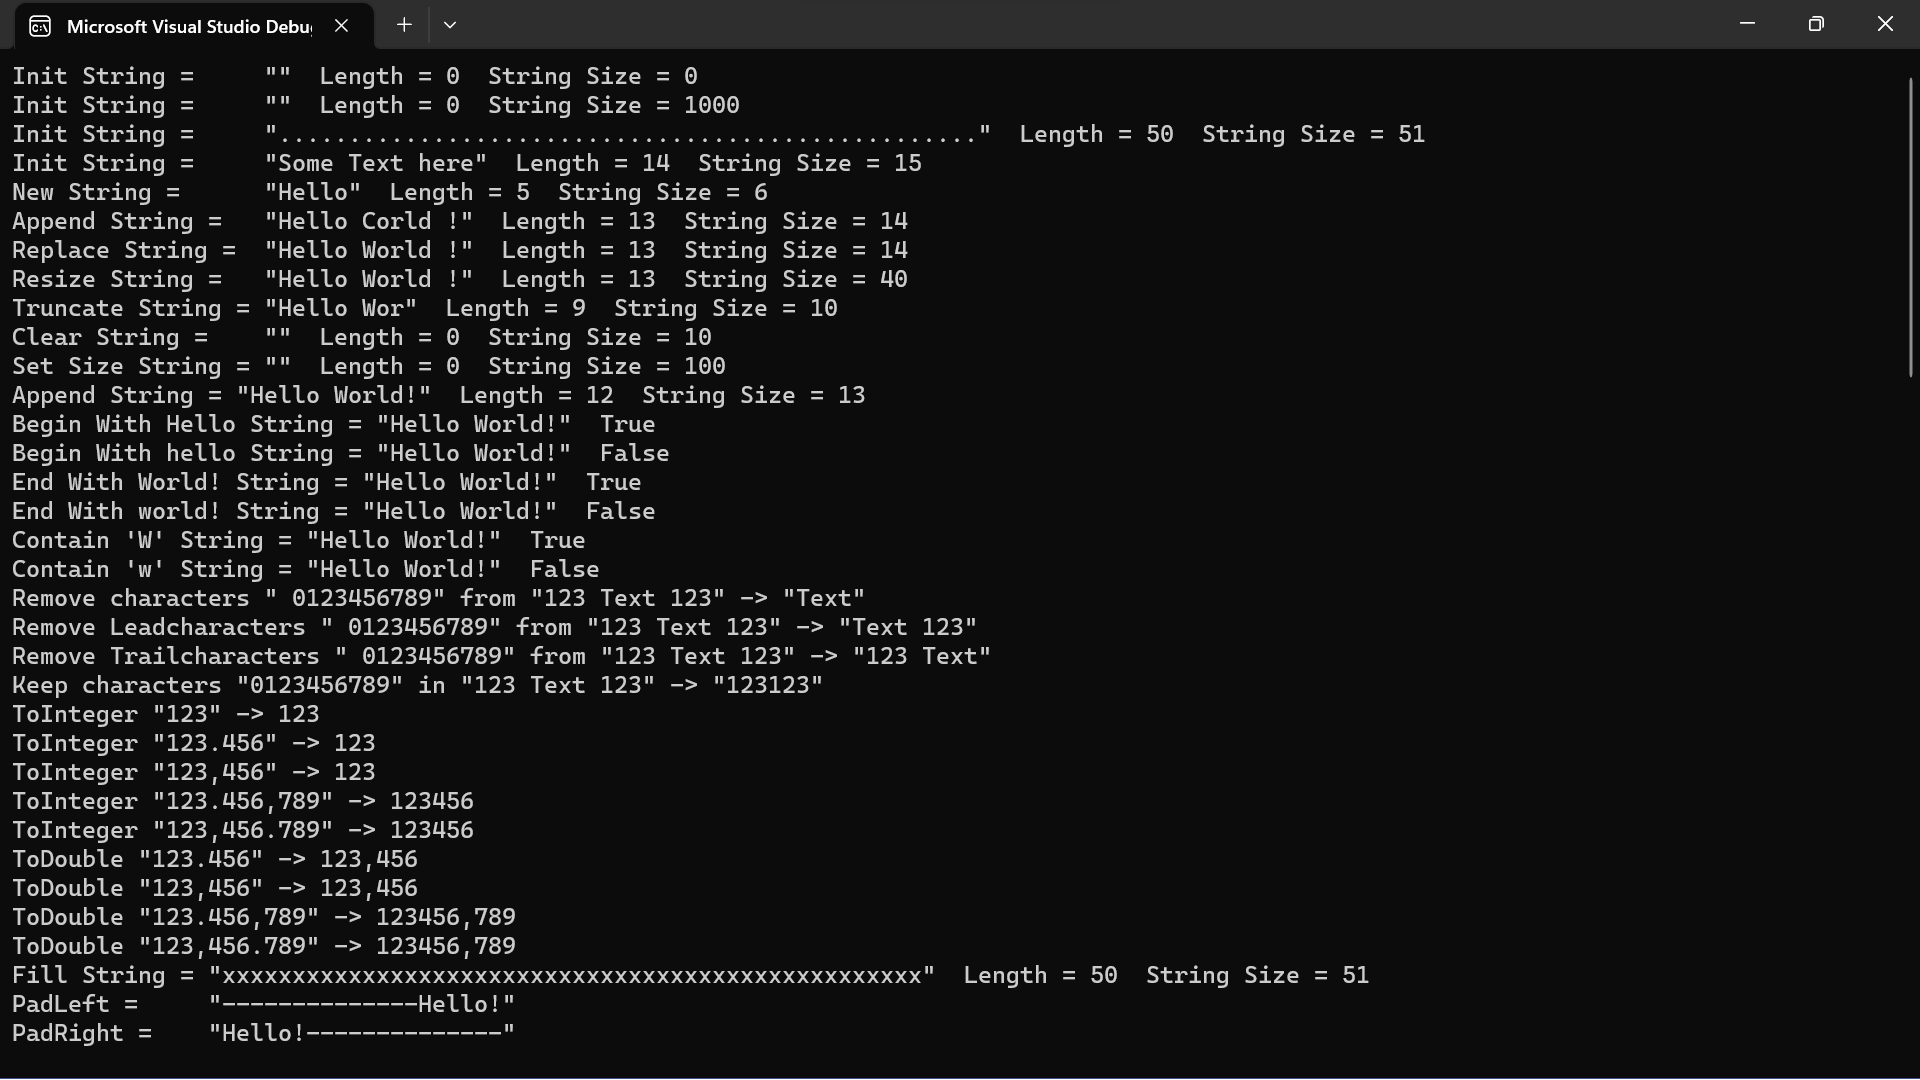
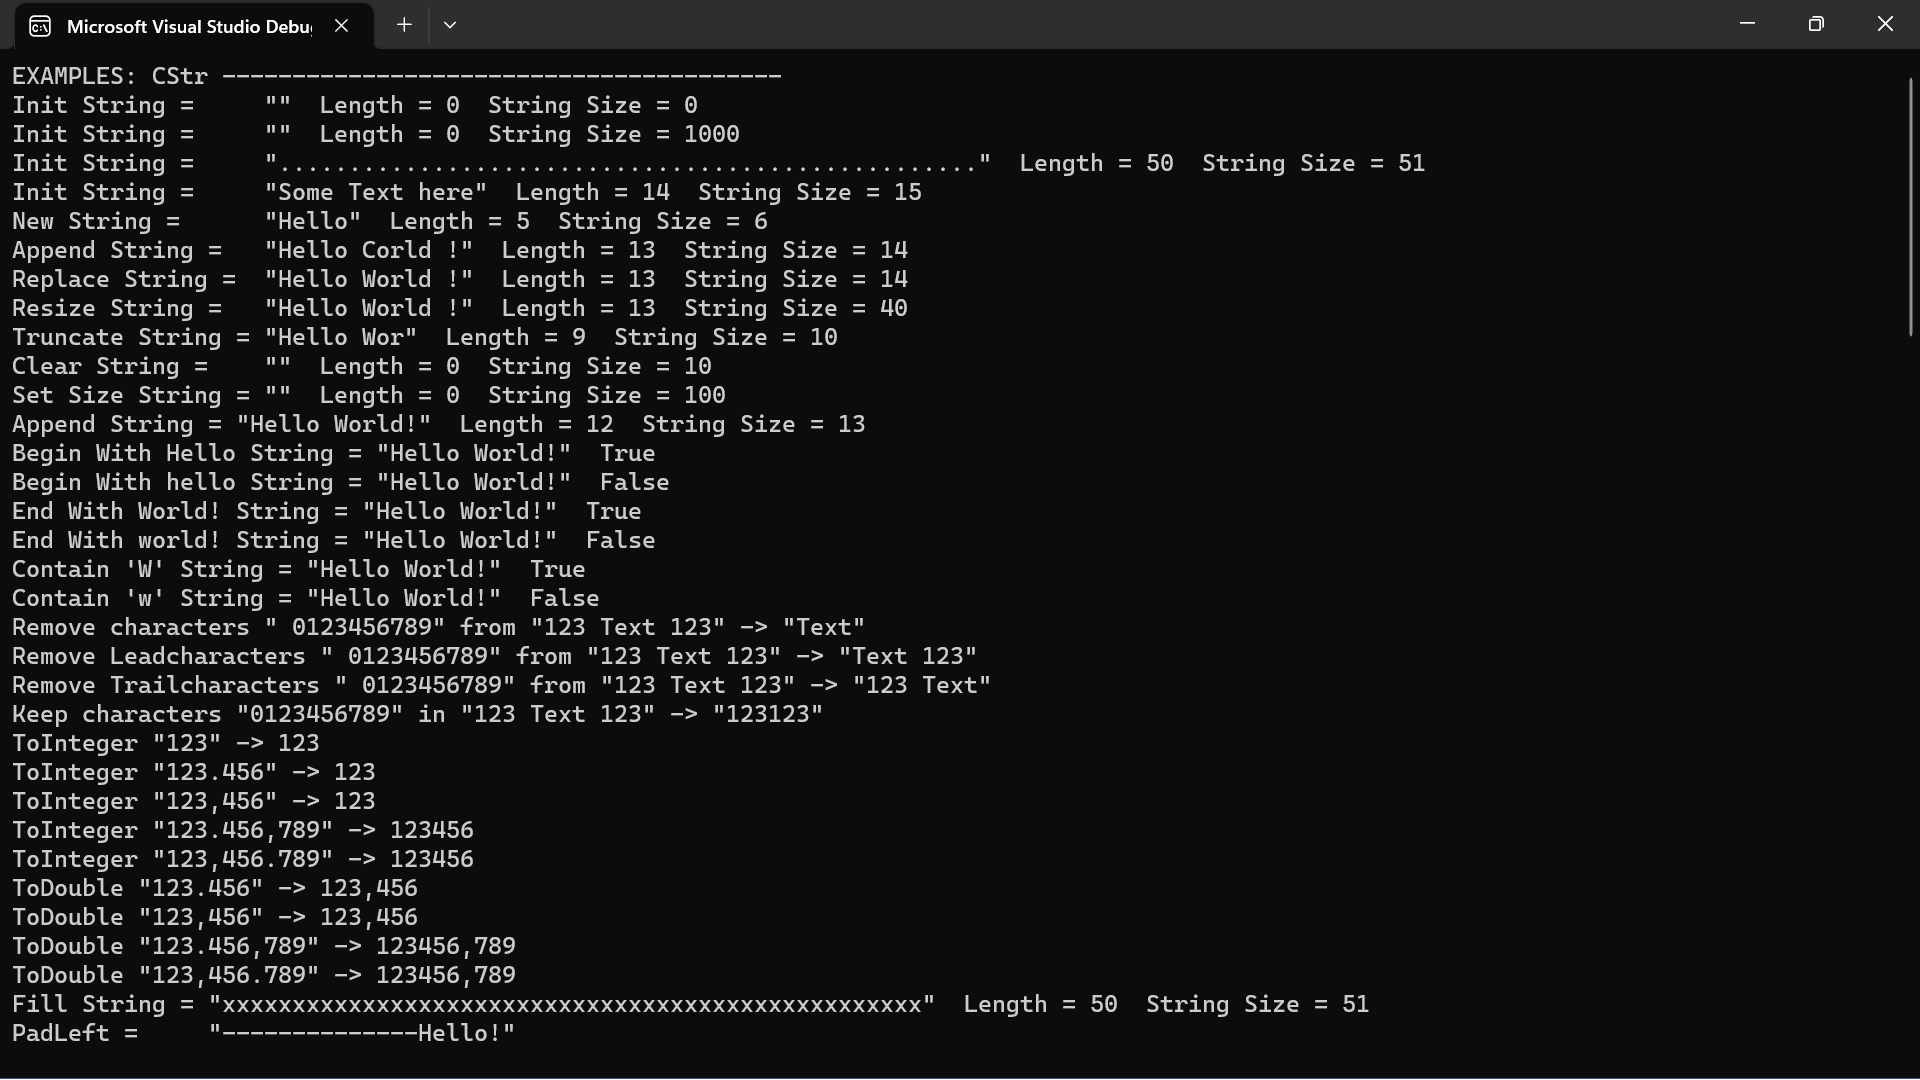
initial CQue (CStack)

diff --git a/Syslib.Core.Application/CQue_Application.cs b/Syslib.Core.Application/CQue_Application.cs
@@ -1,0 +1,122 @@
+
+namespace Syslib.Core.Application
+{
+	internal class CQue_Application
+	{
+		public void Run() 
+		{ 
+			Console.WriteLine("EXAMPLES: CQue ----------------------------------------");
+
+			this.QueClearExample();             // Clear, Items and isEmpty
+			this.QueItemsExample();				// Que function Last In First Out
+			this.PushItemsExample();            // Push function First In First Out
+			this.MixedItemsExample();			// Mix Que and push function
+
+		}
+
+
+
+		void QueClearExample() 
+		{
+			var que = new CStack<Person>();
+
+			Console.WriteLine($"Que contain {que.Length} items and is empty ? {que.IsEmpty} ");
+
+			que.Que(new Person() { Id = 1, Name = "Jane", Age = 30});
+
+			Console.WriteLine($"Que contain {que.Length} items and is empty ? {que.IsEmpty} ");
+
+			que.Clear();
+
+			Console.WriteLine($"Que contain {que.Length} items and is empty ? {que.IsEmpty} ");
+
+		}
+
+
+		void QueItemsExample()
+		{
+			var que = new CStack<Person>();
+			var names = new RandomNames();
+
+			Console.Write($"Que persons: ");
+			for (int i = 0; i < 8; i++)
+			{
+				var person = new Person() { Id = i, Age = CRandom.Random.RandomNumber(10, 50), Name = names.GetRandomName() };
+				que.Que(person);
+				Console.Write($"{person.Name} ({person.Age}), ");
+			}
+
+			Console.Write($"\nQue {que.Length} Order: ");
+
+			while (!que.IsEmpty)
+			{
+				var person = que.Pop();
+				Console.Write($"{person.Name} ({person.Age}), ");
+			}
+			Console.Write("\n");
+
+		}
+
+
+		void PushItemsExample()
+		{
+			var que = new CStack<Person>();
+			var names = new RandomNames();
+
+			Console.Write($"Push persons: ");
+			for (int i = 0; i < 8; i++)
+			{
+				var person = new Person() { Id = i, Age = CRandom.Random.RandomNumber(10, 50), Name = names.GetRandomName() };
+				que.Push(person);
+				Console.Write($"{person.Name} ({person.Age}), ");
+			}
+
+			Console.Write($"\nPush {que.Length} Order: ");
+
+			while (!que.IsEmpty)
+			{
+				var person = que.Pop();
+				Console.Write($"{person.Name} ({person.Age}), ");
+			}
+			Console.Write("\n");
+
+		}
+
+
+		void MixedItemsExample()
+		{
+			var que = new CStack<Person>();
+			var names = new RandomNames();
+
+			Console.Write($"Mixed persons: ");
+			for (int i = 0; i < 4; i++)
+			{
+				var person = new Person() { Id = i, Age = CRandom.Random.RandomNumber(10, 50), Name = names.GetRandomName() };
+				que.Que(person);
+				Console.Write($"{person.Name} ({person.Age}), ");
+			}
+			for (int i = 0; i < 4; i++)
+			{
+				var person = new Person() { Id = i, Age = CRandom.Random.RandomNumber(10, 50), Name = names.GetRandomName() };
+				que.Push(person);
+				Console.Write($"{person.Name} ({person.Age}), ");
+			}
+
+			Console.Write($"\nMixed {que.Length} Order: ");
+
+			while (!que.IsEmpty)
+			{
+				var person = que.Pop();
+				Console.Write($"{person.Name} ({person.Age}), ");
+			}
+			Console.Write("\n");
+
+		}
+
+
+
+
+
+
+	}
+}

diff --git a/Syslib.Core.Application/Program_CommonData.cs b/Syslib.Core.Application/Program_CommonData.cs
@@ -1,0 +1,44 @@
+
+namespace Syslib.Core.Application
+{
+
+
+
+	class Person
+	{
+		public int Id { get; set; }
+		public string? Name { get; set; }
+		public int Age { get; set; }
+
+
+	}
+
+
+	class RandomNames
+	{
+		CList<string> namelist = new();
+
+		string[] data =  { "Adam", "Eve", "Jane", "John" };
+
+		public RandomNames() 
+		{ 
+			this.Init();
+		}
+
+		public string GetRandomName() 
+		{
+			return this.namelist.Random();
+		}
+
+
+		void Init() 
+		{ 
+			this.namelist.Add(data);
+		}
+
+	}
+
+
+
+
+}

diff --git a/Syslib.Core.Application/CList_Application.cs b/Syslib.Core.Application/CList_Application.cs
@@ -3,12 +3,6 @@ namespace Syslib.Core.Application
 {
 
 
-	class Person 
-	{
-        public int Id { get; set; }
-		public string? Name { get; set; }
-
-    }
 
 
 	internal class CList_Application
@@ -18,6 +12,7 @@ namespace Syslib.Core.Application
 
 		public void Run()
 		{
+			Console.WriteLine("EXAMPLES: CList ----------------------------------------");
 			this.IsEmpyList();					// check if list is empty
 			this.AddItemsToList();				// add items to list
 			this.IsEmpyList();					// check if list is empty

diff --git a/Syslib.Core.Application/Hex_Aplication.cs b/Syslib.Core.Application/Hex_Aplication.cs
@@ -8,6 +8,7 @@ namespace Syslib.Core.Application
 
 		public void Run()
 		{
+			Console.WriteLine("EXAMPLES: CHex ----------------------------------------");
 			this.ConvertAnIntegerToAHexString();			// convert an integer value to a hex string representation
 			this.ConvertAByteArrayBufferToAHexString();		// convert a byte array buffer to it's  hex string representation
 			this.ConvertAHexStringToAByteArrayBuffer();		// convert an hex string into a byte array

diff --git a/Syslib.Core.Application/CRandom_Application.cs b/Syslib.Core.Application/CRandom_Application.cs
@@ -6,6 +6,7 @@ namespace Syslib.Core.Application
 
 		public void Run()
 		{
+			Console.WriteLine("EXAMPLES: CRandom ----------------------------------------");
 			this.CustomSeedInit();			// Use of Custom Randomization init with a custom value (not needed)
 			this.RandomNumber();			// generate random positive integer numbers 0 - 99 999 999
 			this.RandomByte();				// generate a random byte value between 0 - 99

diff --git a/Syslib.Core.Application/CStr_Application.cs b/Syslib.Core.Application/CStr_Application.cs
@@ -8,6 +8,7 @@ namespace Syslib.Core.Application
 		
 		public void Run() 
 		{
+			Console.WriteLine("EXAMPLES: CStr ----------------------------------------");
 			this.Init();                // default init
 			this.InitWithSize();        // init with string buffer size
 			this.InitWithFill();		// init with fillstring

diff --git a/Syslib.Core.Application/CHash_Application.cs b/Syslib.Core.Application/CHash_Application.cs
@@ -16,6 +16,7 @@ namespace Syslib.Core.Application
 
 		public void Run()
 		{
+			Console.WriteLine("EXAMPLES: CHash ----------------------------------------");
 			this.MD5Example();
 			this.SHA1Example();
 			this.SHA256Example();

diff --git a/Syslib.Core.Application/Program.cs b/Syslib.Core.Application/Program.cs
@@ -17,3 +17,7 @@ new Hex_Aplication().Run();
 // CHash Examples
 new CHash_Application().Run();
 
+
+// CQue Examples
+new CQue_Application().Run();
+
